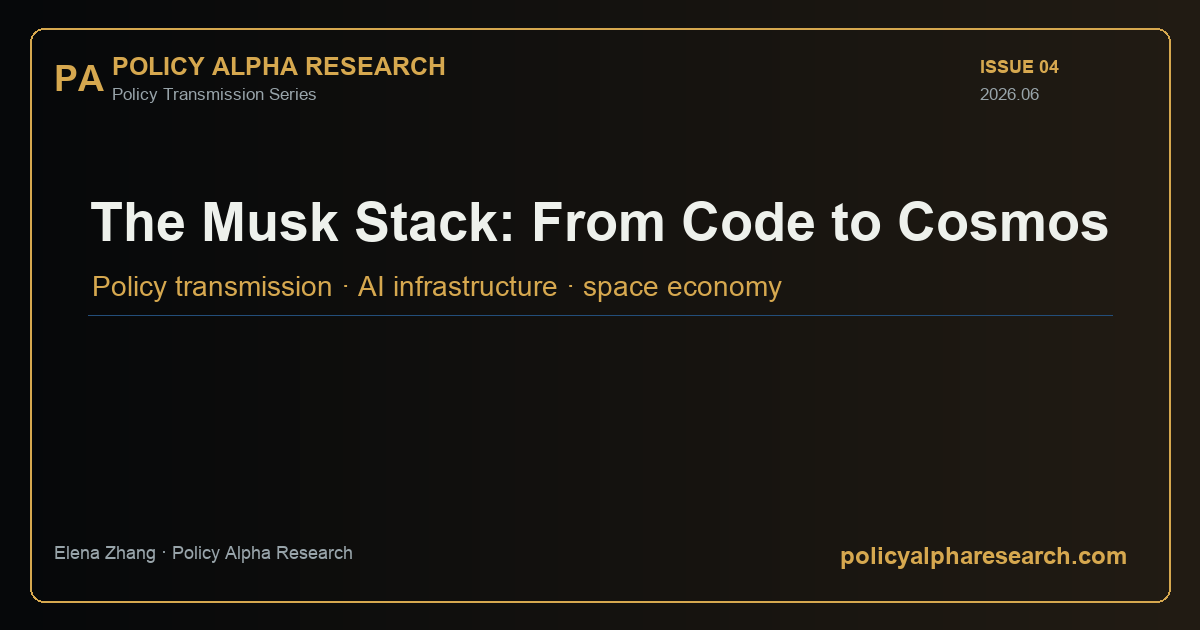
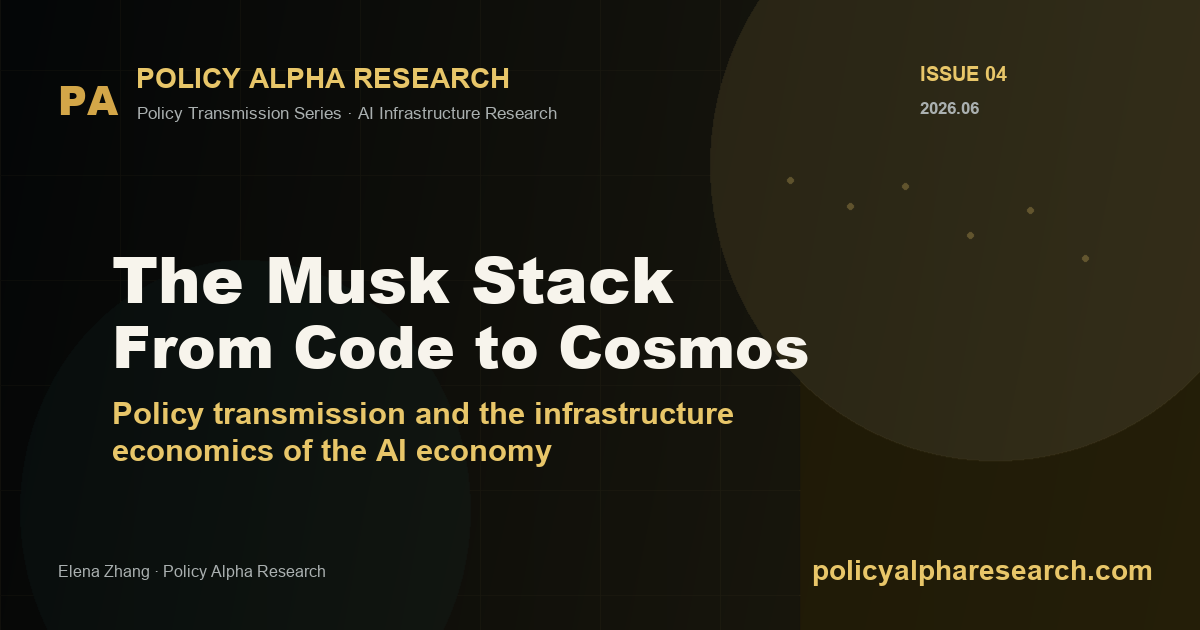
Add files via upload

diff --git a/script.js b/script.js
@@ -210,6 +210,57 @@ initLanguageSwitchFallback();
 initAppShell();
 initReadingProgress();
 
+function initArticleShareButtons() {
+  const buttons = document.querySelectorAll(".share-article-button");
+  if (!buttons.length) return;
+
+  const canonical = document.querySelector('link[rel="canonical"]')?.href || window.location.href;
+  if (/\/articles\/zh?-?nvidia-at-the-tollgate\.html$|\/articles\/nvidia-at-the-tollgate\.html$/.test(new URL(canonical, window.location.href).pathname)) {
+    return;
+  }
+
+  const title = document.querySelector('meta[property="og:title"]')?.content || document.title;
+  const text =
+    document.querySelector('meta[property="og:description"]')?.content ||
+    document.querySelector('meta[name="description"]')?.content ||
+    "";
+  const shareUrl = canonical;
+
+  buttons.forEach((button) => {
+    if (button.dataset.shareBound === "true") return;
+    button.dataset.shareBound = "true";
+    button.addEventListener("click", async () => {
+      const originalText = button.textContent;
+      const copiedText = isChinesePage ? "链接已复制" : "Link Copied";
+      const fallbackMessage = isChinesePage
+        ? "已复制文章链接，可粘贴到微信、小红书、Instagram 或其他平台。"
+        : "Article link copied. You can paste it into your preferred platform.";
+      const shareData = { title, text, url: shareUrl };
+
+      try {
+        if (navigator.share && navigator.canShare?.(shareData) !== false) {
+          await navigator.share(shareData);
+          return;
+        }
+      } catch (error) {
+        if (error?.name === "AbortError") return;
+      }
+
+      try {
+        await navigator.clipboard.writeText(shareUrl);
+        button.textContent = copiedText;
+        window.setTimeout(() => {
+          button.textContent = originalText;
+        }, 1800);
+      } catch {
+        window.prompt(fallbackMessage, shareUrl);
+      }
+    });
+  });
+}
+
+initArticleShareButtons();
+
 const strategyPoints = [100, 108, 101, 119, 127, 116, 132, 148, 139, 154, 163, 151, 168, 174, 181, 169, 176, 188, 181, 186.4];
 const sp500Points = [100, 106, 102, 112, 118, 113, 122, 130, 126, 136, 143, 138, 150, 155, 158, 149, 154, 162, 158, 161.8];
 const nasdaqPoints = [100, 112, 106, 126, 134, 121, 139, 152, 145, 158, 168, 154, 171, 179, 184, 166, 171, 181, 174, 174.2];

diff --git a/articles/musk-stack-from-code-to-cosmos.html b/articles/musk-stack-from-code-to-cosmos.html
@@ -27,7 +27,7 @@
       content="A policy transmission analysis of SpaceX, Starlink, xAI, AI infrastructure, export controls, spectrum policy, and valuation risk."
     />
     <meta property="og:url" content="https://policyalpharesearch.com/articles/musk-stack-from-code-to-cosmos.html" />
-    <meta property="og:image" content="https://policyalpharesearch.com/assets/social/musk-stack-share-card.png" />
+    <meta property="og:image" content="https://policyalpharesearch.com/assets/social/spacex-musk-stack-share-card-v79.png" />
     <meta property="article:author" content="Elena Zhang" />
     <meta property="article:published_time" content="2026-06-03" />
     <meta property="article:modified_time" content="2026-06-03" />
@@ -44,7 +44,7 @@
       name="twitter:description"
       content="A policy transmission analysis of SpaceX, Starlink, xAI, AI infrastructure, export controls, spectrum policy, and valuation risk."
     />
-    <meta name="twitter:image" content="https://policyalpharesearch.com/assets/social/musk-stack-share-card.png" />
+    <meta name="twitter:image" content="https://policyalpharesearch.com/assets/social/spacex-musk-stack-share-card-v79.png" />
     <link rel="icon" href="/favicon.ico" sizes="any" />
     <link rel="apple-touch-icon" href="../assets/app-icon-180.png" />
     <link rel="manifest" href="../site.webmanifest" />
@@ -68,7 +68,7 @@
           "@type": "WebPage",
           "@id": "https://policyalpharesearch.com/articles/musk-stack-from-code-to-cosmos.html"
         },
-        "image": "https://policyalpharesearch.com/assets/social/musk-stack-share-card.png",
+        "image": "https://policyalpharesearch.com/assets/social/spacex-musk-stack-share-card-v79.png",
         "isAccessibleForFree": true,
         "keywords": [
           "SpaceX IPO",
@@ -111,7 +111,7 @@
         ]
       }
     </script>
-    <link rel="stylesheet" href="../styles.css?v=[phone redacted]-musk-stack-mobile-table-v73" />
+    <link rel="stylesheet" href="../styles.css?v=20260603-spacex-share-card-v79" />
   </head>
   <body>
     <header class="site-header">
@@ -683,6 +683,6 @@
       <span>Research by Elena Zhang</span>
       <a href="../index.html#disclaimer">Risk Disclosure</a>
     </footer>
-    <script src="../script.js?v=[phone redacted]-musk-stack-mobile-table-v73"></script>
+    <script src="../script.js?v=20260603-spacex-share-card-v79"></script>
   </body>
 </html>

diff --git a/articles/zh-musk-stack-from-code-to-cosmos.html b/articles/zh-musk-stack-from-code-to-cosmos.html
@@ -27,7 +27,7 @@
       content="一篇关于 SpaceX、Starlink、xAI、AI 基础设施、出口管制、频谱政策与估值风险的政策传导研究。"
     />
     <meta property="og:url" content="https://policyalpharesearch.com/articles/zh-musk-stack-from-code-to-cosmos.html" />
-    <meta property="og:image" content="https://policyalpharesearch.com/assets/social/zh-musk-stack-share-card.png" />
+    <meta property="og:image" content="https://policyalpharesearch.com/assets/social/zh-spacex-musk-stack-share-card-v79.png" />
     <meta property="article:author" content="Elena Zhang" />
     <meta property="article:published_time" content="2026-06-03" />
     <meta property="article:modified_time" content="2026-06-03" />
@@ -44,7 +44,7 @@
       name="twitter:description"
       content="一篇关于 SpaceX、Starlink、xAI、AI 基础设施、出口管制、频谱政策与估值风险的政策传导研究。"
     />
-    <meta name="twitter:image" content="https://policyalpharesearch.com/assets/social/zh-musk-stack-share-card.png" />
+    <meta name="twitter:image" content="https://policyalpharesearch.com/assets/social/zh-spacex-musk-stack-share-card-v79.png" />
     <link rel="icon" href="/favicon.ico" sizes="any" />
     <link rel="apple-touch-icon" href="../assets/app-icon-180.png" />
     <link rel="manifest" href="../site.webmanifest" />
@@ -68,7 +68,7 @@
           "@type": "WebPage",
           "@id": "https://policyalpharesearch.com/articles/zh-musk-stack-from-code-to-cosmos.html"
         },
-        "image": "https://policyalpharesearch.com/assets/social/zh-musk-stack-share-card.png",
+        "image": "https://policyalpharesearch.com/assets/social/zh-spacex-musk-stack-share-card-v79.png",
         "isAccessibleForFree": true,
         "keywords": [
           "SpaceX IPO",
@@ -111,7 +111,7 @@
         ]
       }
     </script>
-    <link rel="stylesheet" href="../styles.css?v=[phone redacted]-musk-stack-mobile-table-v73" />
+    <link rel="stylesheet" href="../styles.css?v=20260603-spacex-share-card-v79" />
   </head>
   <body>
     <header class="site-header">
@@ -655,6 +655,6 @@
       <span>Research by Elena Zhang</span>
       <a href="../zh.html#disclaimer">风险声明</a>
     </footer>
-    <script src="../script.js?v=[phone redacted]-musk-stack-mobile-table-v73"></script>
+    <script src="../script.js?v=20260603-spacex-share-card-v79"></script>
   </body>
 </html>